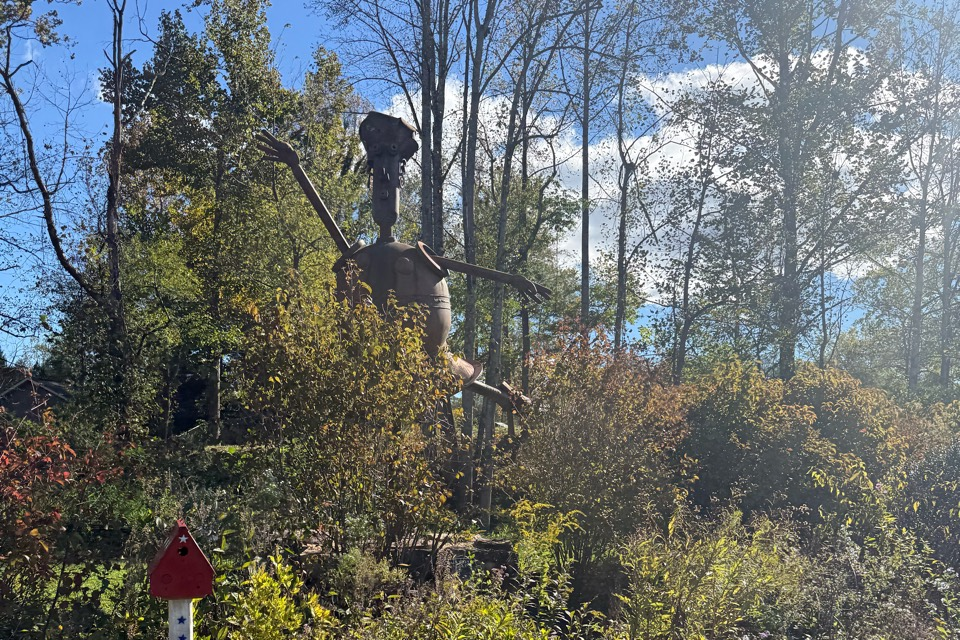
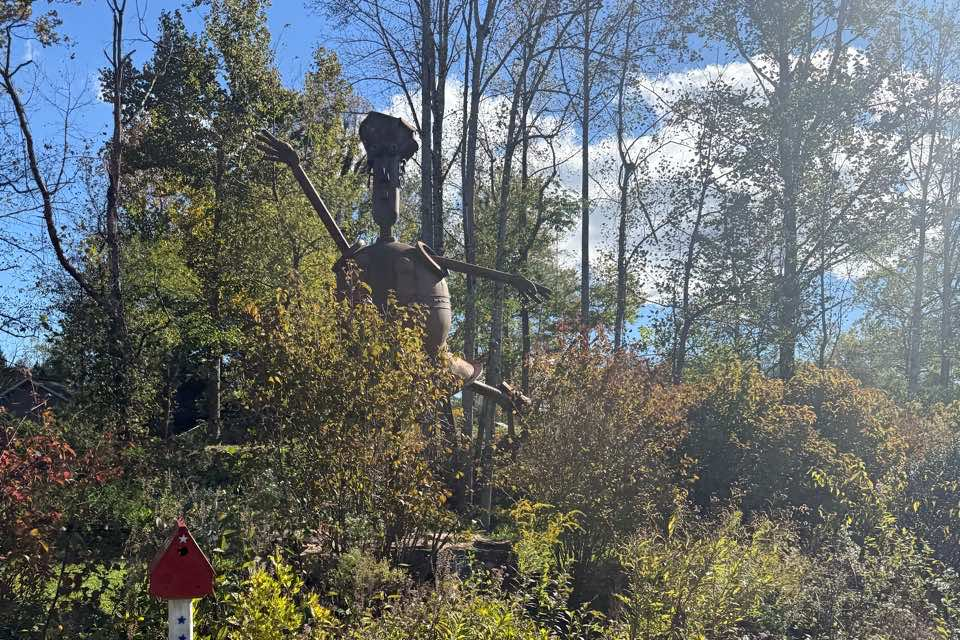
Fix findings from the pre-release code review
- The map no longer refits when the sheet comes back (switching on a
  category, tapping a stop while following), so the rider keeps their zoom;
  dismissing the Getting around card refits once instead.
- The hidden sheet is kept from taps and VoiceOver.
- The three new adventure photos are recompressed to photo-prep.cjs's
  quality 35: 888 KB down to 352 KB.
- Provenance lines for the new photos in the runbook, which requires one
  before a photo ships, and a note on the passers-by in shop-ride.jpg.
- select.js no longer exports alongLine, used only inside it.

diff --git a/src/screens/MapScreen.js b/src/screens/MapScreen.js
@@ -409,7 +409,7 @@ export default function MapScreen({ following, showNonce, onStopFollowing, inFro
         // refits; panning around within one layout is left alone. The column's
         // width is in the key, not just whether it exists, because it settles
         // only once this screen's own layout reports the new size.
-        fitKey={`${rideToId ?? following?.id ?? 'trail'}-${rideRoute ? 'ride' : ''}-${recenter}-${showNonce}-${dock ? dock.width : 'upright'}-${sheetHidden ? 'full' : 'sheet'}`}
+        fitKey={`${rideToId ?? following?.id ?? 'trail'}-${rideRoute ? 'ride' : ''}-${recenter}-${showNonce}-${dock ? dock.width : 'upright'}`}
         fitLatLngs={rideRoute ?? route ?? networkLatLngs}
         // What the map must keep clear of: the header, sheet and rail. Docked,
         // the header and sheet are a column on the left and nothing covers
@@ -497,7 +497,13 @@ export default function MapScreen({ following, showNonce, onStopFollowing, inFro
           onOpenHeightChange={setOpenSheetHeight}
           hidden={sheetHidden}
           stop={stopDest ? { number: selectedStop + 1, total: following.stops.length, ...stop } : null}
-          onDismissFacts={() => setFactsDismissed(true)}
+          onDismissFacts={() => {
+            // Refit once to the room the card leaves. The sheet coming back
+            // (a category switched on) does not refit, so the rider keeps
+            // whatever zoom they have.
+            setFactsDismissed(true);
+            setRecenter((n) => n + 1);
+          }}
           dock={dock}
           sideInsets={{ left: insets.left, right: insets.right }}
           destinations={shown}

diff --git a/src/components/MapSheet.js b/src/components/MapSheet.js
@@ -90,6 +90,10 @@ export default function MapSheet({
 
   return (
     <Animated.View
+      // Off screen when hidden: keep it from taps and from VoiceOver too.
+      pointerEvents={hidden ? 'none' : 'auto'}
+      accessibilityElementsHidden={hidden}
+      importantForAccessibility={hidden ? 'no-hide-descendants' : 'auto'}
       style={[
         styles.sheet,
         dock ? [styles.docked, dock] : { left: 0, right: 0, paddingLeft: sideInsets.left, paddingRight: sideInsets.right },

diff --git a/src/lib/select.js b/src/lib/select.js
@@ -290,6 +290,5 @@ module.exports = {
   buildRouteGraph,
   routeOnGraph,
   rideMinutes,
-  alongLine,
   nextStopIndex,
 };

diff --git a/docs/runbook.md b/docs/runbook.md
@@ -63,8 +63,11 @@ Every photo in the app must have a provenance line here before it ships.
 | `concert-night.jpg` | IMG_8592 — a band on a taproom stage | Sarah Ritter, 26 Oct 2021 |
 | `end-to-end.jpg` | IMG_6045 — a group ride gathered beside the path | Sarah Ritter, 21 Jun 2021 |
 | `bracken-loop.jpg` | IMG_5282 — The Hub & Pisgah Tavern, where the ride starts | Sarah Ritter, 30 Sep 2026 |
+| `short-track.jpg` | IMG_5589 — the Depot Park sign, with Nature Trails' short-track features behind | Sarah Ritter, 17 Oct 2026 |
+| `shop-ride.jpg` | IMG_5618 — Earth Mountain Bicycle's bike mural on E Main | Sarah Ritter, 17 Oct 2026 |
+| `art-ride.jpg` | IMG_5590 — Ballerina Angelina in the Depot Park garden | Sarah Ritter, 17 Oct 2026 |
 
-All nine are now Sarah's own. Nothing from the design dataset is left in
+All twelve are Sarah's own. Nothing from the design dataset is left in
 `assets/adventures/`.
 
 Three of them show people, and the clearance for each is recorded in
@@ -78,6 +81,9 @@ names — close enough for the feel of it, and unambiguously ours, which matters
 more. Do not swap one out for being approximate.
 
 A new photograph of people needs its clearance written down before it ships.
+`shop-ride.jpg` shows two passers-by, small and unidentifiable at the right
+edge of a public street scene; Sarah to confirm she is content with that
+before 1.1.0 ships, or the crop moves left.
 
 Three of the nine predate the surveys — 2021, 2021 and 2024 — and carry no
 GPS, so the dates above are the real ones rather than this week's.
